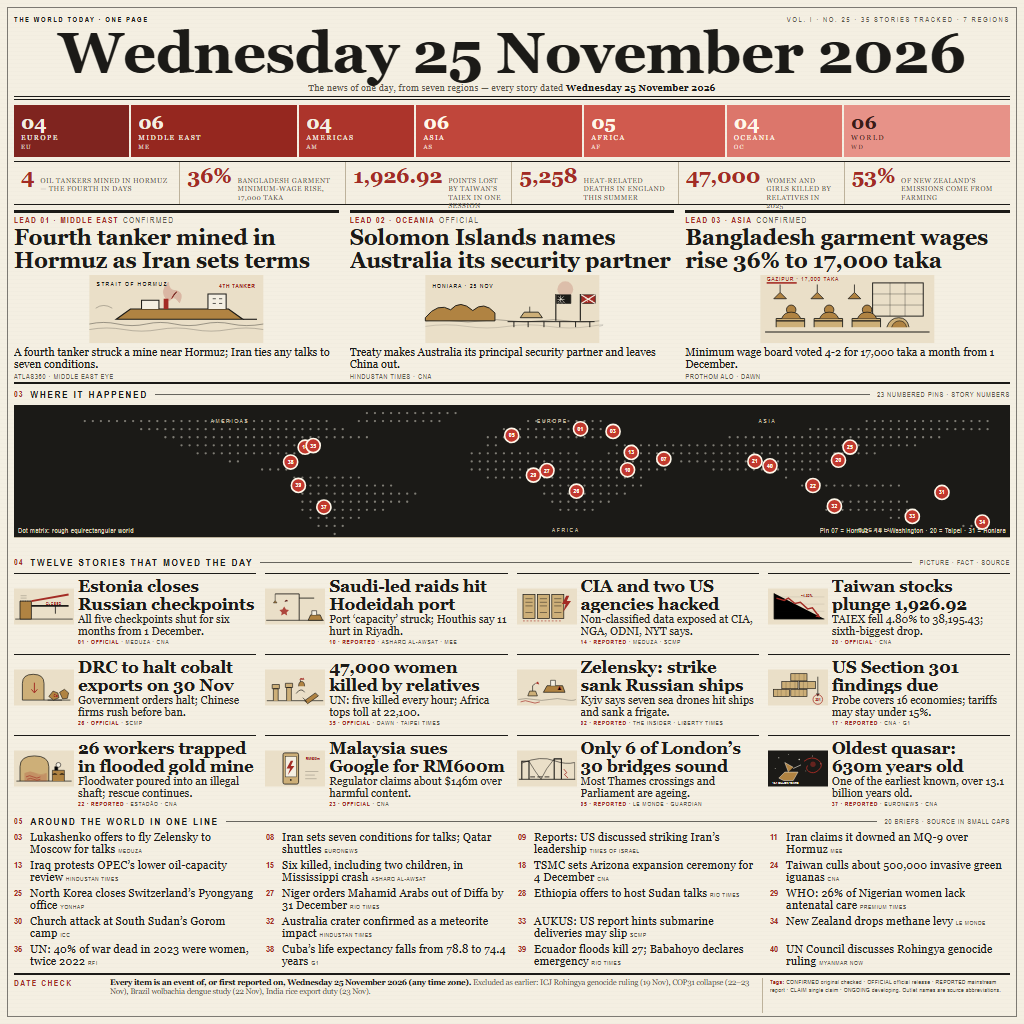
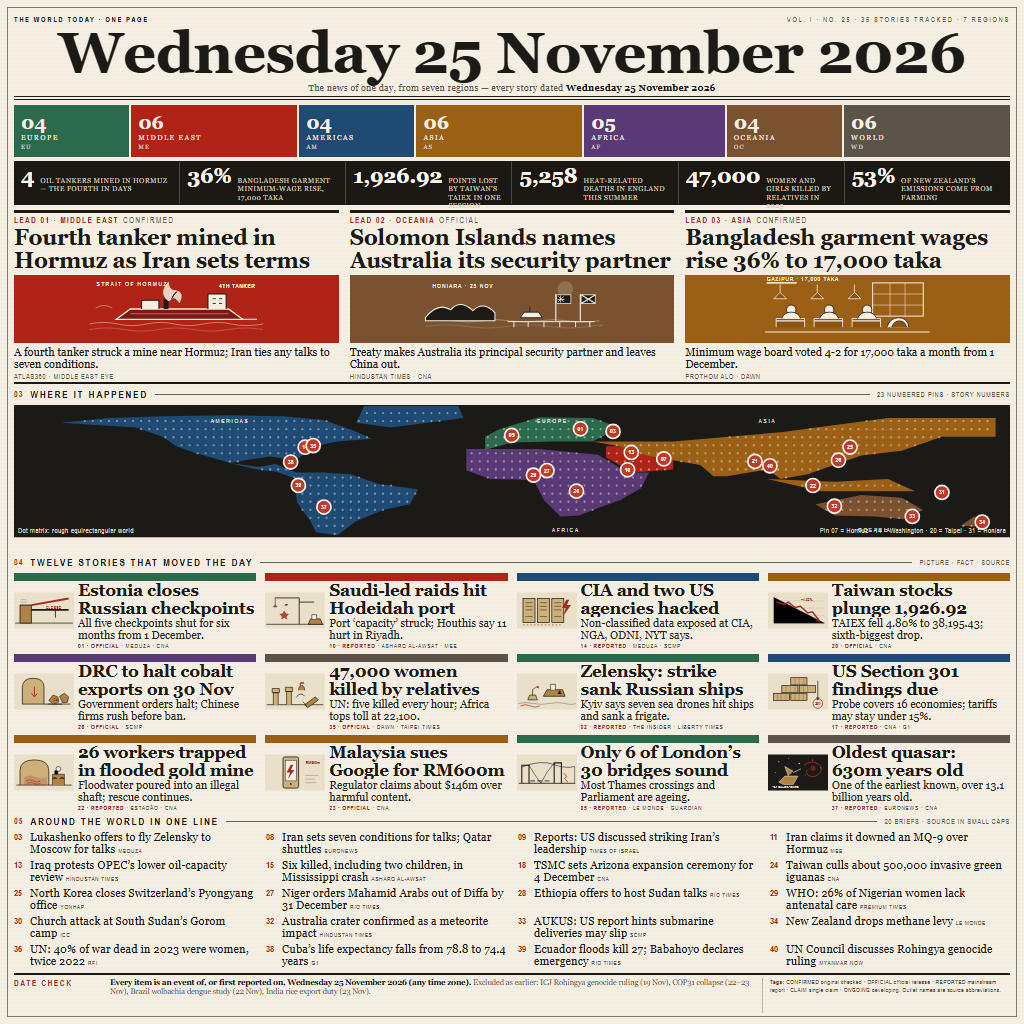
v2: area-level colour blocks - region palette, solid lead panels, dark stat strip, card top bars, map land fills

diff --git a/design.html b/design.html
@@ -40,11 +40,11 @@
   .region b{font-size:19px;line-height:19px;font-family:Georgia,serif}
   .region span{font-size:7.4px;line-height:8px;letter-spacing:1.2px;text-transform:uppercase;margin-top:2px;white-space:nowrap}
   .region small{font-size:6.4px;letter-spacing:.8px;opacity:.8;margin-top:1px;text-transform:uppercase;white-space:nowrap}
-  .numbers{display:flex;height:44px;margin-top:4px;border-top:1.5px solid var(--ink);border-bottom:1.5px solid var(--ink)}
-  .num{flex:1;border-right:1px solid var(--faint);padding:3px 7px 2px 7px;display:flex;align-items:baseline;gap:6px;min-width:0}
+  .numbers{display:flex;height:44px;margin-top:4px;border-top:1.5px solid var(--ink);border-bottom:1.5px solid var(--ink);background:#1B1813}
+  .num{flex:1;border-right:1px solid rgba(244,239,226,.22);padding:3px 7px 2px 7px;display:flex;align-items:baseline;gap:6px;min-width:0}
   .num:last-child{border-right:0}
-  .num b{font-size:21px;line-height:22px;color:var(--accent);white-space:nowrap;letter-spacing:-.3px}
-  .num span{font-size:7.1px;line-height:8.4px;text-transform:uppercase;letter-spacing:.35px;color:var(--muted)}
+  .num b{font-size:21px;line-height:22px;color:#FFF8EA;white-space:nowrap;letter-spacing:-.3px}
+  .num span{font-size:7.1px;line-height:8.4px;text-transform:uppercase;letter-spacing:.35px;color:#D8CDB8}
   .sec-head{display:flex;align-items:center;gap:7px;height:15px;margin-bottom:3px}
   .sec-no{font-family:"Arial Narrow","Segoe UI",Arial,sans-serif;font-size:8px;font-weight:700;letter-spacing:1px;color:var(--accent)}
   .sec-head h2{font-family:"Arial Narrow","Segoe UI",Arial,sans-serif;font-size:9.5px;line-height:11px;letter-spacing:2px;text-transform:uppercase;margin:0;font-weight:700}
@@ -65,7 +65,7 @@
   .map-key{position:absolute;left:4px;bottom:3px;font-family:"Arial Narrow","Segoe UI",Arial,sans-serif;font-size:6.7px;letter-spacing:.5px;color:#D8CDB8}
   .cards-section{margin-top:5px}
   .cards-grid{display:grid;grid-template-columns:repeat(4,1fr);gap:7px 9px}
-  .card{height:74px;border-top:1.5px solid var(--ink);padding-top:3px;display:grid;grid-template-columns:60px 1fr;gap:4px;min-width:0}
+  .card{height:74px;border-top:8px solid var(--ink);padding-top:0;display:grid;grid-template-columns:60px 1fr;gap:4px;min-width:0}
   .card-art{width:60px;height:55px;margin-top:2px}
   .card-txt{min-width:0}
   .card-title{font-size:17px;line-height:18.2px;font-weight:700;height:36.4px;overflow:hidden;letter-spacing:-.2px}
@@ -87,7 +87,7 @@
   .paper-dot{fill:#F4EFE2;opacity:.46}
   .pin{fill:#C0392E;stroke:#FFF8EA;stroke-width:1.6}
   .pin-label{font-family:"Arial Narrow","Segoe UI",Arial,sans-serif;font-weight:700;fill:#FFF8EA;font-size:6.4px;text-anchor:middle}
-  .map-region{font-family:"Arial Narrow","Segoe UI",Arial,sans-serif;font-size:6.2px;letter-spacing:1.5px;fill:#BDB29B;text-anchor:middle}
+  .map-region{font-family:"Arial Narrow","Segoe UI",Arial,sans-serif;font-size:6.2px;letter-spacing:1.5px;fill:#F4EFE2;opacity:.8;text-anchor:middle}
 </style>
 </head>
 <body>
@@ -96,13 +96,13 @@
 const INK='#1B1A17', ACC='#A32B24', PAP='#F4EFE2', PAP2='#CDAF78', PAP3='#B08342', MUT='#5E594E';
 
 const REGIONS=[
-  {key:'EU',name:'EUROPE',count:4,color:'#7F241F',fg:'#F4EFE2'},
-  {key:'ME',name:'MIDDLE EAST',count:6,color:'#95271F',fg:'#F4EFE2'},
-  {key:'AM',name:'AMERICAS',count:4,color:'#AC342B',fg:'#F4EFE2'},
-  {key:'AS',name:'ASIA',count:6,color:'#C0463B',fg:'#FFF8EA'},
-  {key:'AF',name:'AFRICA',count:5,color:'#D05A4E',fg:'#FFF8EA'},
-  {key:'OC',name:'OCEANIA',count:4,color:'#DC766B',fg:'#FFF8EA'},
-  {key:'WD',name:'WORLD',count:6,color:'#E79288',fg:'#3A1C18'}
+  {key:'EU',name:'EUROPE',count:4,color:'#2C6A4D',fg:'#F4EFE2'},
+  {key:'ME',name:'MIDDLE EAST',count:6,color:'#B02418',fg:'#F4EFE2'},
+  {key:'AM',name:'AMERICAS',count:4,color:'#1E4A74',fg:'#F4EFE2'},
+  {key:'AS',name:'ASIA',count:6,color:'#9C5F16',fg:'#F4EFE2'},
+  {key:'AF',name:'AFRICA',count:5,color:'#5A3A76',fg:'#F4EFE2'},
+  {key:'OC',name:'OCEANIA',count:4,color:'#7A5230',fg:'#F4EFE2'},
+  {key:'WD',name:'WORLD',count:6,color:'#5A544A',fg:'#F4EFE2'}
 ];
 
 const NUMBERS=[
@@ -173,9 +173,9 @@ quasar:`<svg class="art" viewBox="0 0 100 60"><rect width="100" height="60" fill
 };
 
 const ART_HEAD={
-tanker:`<svg class="art" viewBox="0 0 220 86"><rect width="220" height="86" fill="#EADFC8"/><path d="M0 62 Q18 58 36 62 T72 62 T108 62 T144 62 T180 62 T220 62" fill="none" stroke="${INK}" stroke-width="1.1" opacity=".45"/><path d="M0 69 Q22 65 44 69 T88 69 T132 69 T176 69 T220 69" fill="none" stroke="${INK}" stroke-width="1.1" opacity=".28"/><path d="M34 56 L52 43 H176 L194 56 Z" fill="${PAP3}" stroke="${INK}" stroke-width="1.5"/><path d="M66 43 V32 H88 V43" fill="${PAP}" stroke="${INK}" stroke-width="1.3"/><path d="M150 43 V24 H173 V43" fill="${PAP}" stroke="${INK}" stroke-width="1.3"/><path d="M156 30 h4 M164 30 h4 M156 36 h4 M164 36 h4" stroke="${INK}" stroke-width=".9"/><path d="M94 43 V30 h6 v13" fill="${ACC}"/><path d="M99 32 Q88 22 100 9 Q100 20 110 20 Q120 22 114 35 Q108 26 104 30 Q101 34 99 32Z" fill="${ACC}" opacity=".22" stroke="${ACC}" stroke-width="1.2"/><path d="M104 30 q3 -7 7 -9" stroke="${ACC}" stroke-width="1.2"/><path d="M194 56 h18" stroke="${INK}" stroke-width="1.4"/><path d="M8 42 q10 -7 21 0" stroke="${INK}" opacity=".35" fill="none"/><text x="9" y="14" font-family="Arial Narrow,Arial" font-size="8" letter-spacing="1.6" fill="${INK}">STRAIT OF HORMUZ</text><text x="164" y="16" font-family="Arial Narrow,Arial" font-size="7" font-weight="bold" letter-spacing="1" fill="${ACC}">4TH TANKER</text></svg>`,
-solomon:`<svg class="art" viewBox="0 0 220 86"><rect width="220" height="86" fill="#EADFC8"/><circle cx="177" cy="18" r="10" fill="${ACC}" opacity=".18"/><path d="M0 58 Q18 55 36 58 T72 58 T108 58 T144 58 T180 58 T220 58" stroke="${INK}" stroke-width="1" opacity=".4" fill="none"/><path d="M0 65 Q26 61 52 65 T104 65 T156 65 T208 65 T220 65" stroke="${INK}" stroke-width=".9" opacity=".22" fill="none"/><path d="M0 54 Q16 34 32 44 Q44 30 60 45 Q74 32 88 48 L88 58 H0 Z" fill="${PAP3}" stroke="${INK}" stroke-width="1.2"/><path d="M104 59 H214 M112 59 V66 M130 59 V66 M150 59 V66 M170 59 V66 M190 59 V66 M208 59 V66" stroke="${INK}" stroke-width="1.2"/><path d="M120 54 H148 L143 47 H125 Z" fill="${PAP2}" stroke="${INK}" stroke-width="1.1"/><path d="M132 47 V40" stroke="${INK}" stroke-width=".9"/><path d="M165 58 V24 M196 58 V24" stroke="${INK}" stroke-width="1.4"/><path d="M166 25 H184 V36 H166 Z" fill="#1B1A17" stroke="${INK}" stroke-width=".8"/><path d="M168 27 l7 7 M175 27 l-7 7 M171 26 v9 M167 31 h9" stroke="#F4EFE2" stroke-width=".7"/><path d="M167 34 l2 2 2 -2 2 2 2 -2 2 2" stroke="#F4EFE2" stroke-width=".6"/><path d="M197 25 H215 V36 H197 Z" fill="#A32B24" stroke="${INK}" stroke-width=".8"/><path d="M197 25 L215 36 M197 36 L215 25" stroke="#F4EFE2" stroke-width="1.4"/><g fill="#F4EFE2"><circle cx="203" cy="29" r=".8"/><circle cx="208" cy="30" r=".8"/><circle cx="205" cy="33" r=".7"/><circle cx="211" cy="33" r=".8"/><circle cx="207" cy="31" r=".6"/></g><text x="9" y="16" font-family="Arial Narrow,Arial" font-size="7.5" letter-spacing="1.4" fill="${INK}">HONIARA · 25 NOV</text></svg>`,
-garment:`<svg class="art" viewBox="0 0 220 86"><rect width="220" height="86" fill="#EADFC8"/><g fill="none" stroke="${INK}"><rect x="142" y="10" width="64" height="42" stroke-width="1.2"/><path d="M142 24 H206 M142 38 H206 M164 10 V52 M183 10 V52" stroke-width=".7" opacity=".6"/></g><path d="M25 12 V22 M25 22 L17 30 H33 Z" fill="${PAP3}" stroke="${INK}" stroke-width="1"/><path d="M72 12 V22 M72 22 L64 30 H80 Z" fill="${PAP3}" stroke="${INK}" stroke-width="1"/><path d="M119 12 V22 M119 22 L111 30 H127 Z" fill="${PAP3}" stroke="${INK}" stroke-width="1"/><path d="M6 72 H214" stroke="${INK}" stroke-width="1.3"/><g stroke="${INK}" stroke-width="1.1"><path d="M20 66 V55 H56 V66" fill="${PAP2}"/><path d="M68 66 V55 H104 V66" fill="${PAP2}"/><path d="M116 66 V55 H152 V66" fill="${PAP2}"/><path d="M20 58 H56 M68 58 H104 M116 58 H152" stroke-width="1.4"/></g><g fill="${PAP3}" stroke="${INK}" stroke-width="1"><circle cx="39" cy="44" r="6"/><path d="M27 55 Q30 47 39 47 Q48 47 51 55"/><circle cx="87" cy="44" r="6"/><path d="M75 55 Q78 47 87 47 Q96 47 99 55"/><circle cx="135" cy="44" r="6"/><path d="M123 55 Q126 47 135 47 Q144 47 147 55"/></g><path d="M160 66 q4 -12 15 -12 q11 0 13 12" fill="${PAP2}" stroke="${INK}" stroke-width="1"/><path d="M166 66 q3 -8 10 -8 q7 0 9 8" fill="${PAP3}" stroke="${INK}" stroke-width=".8"/><path d="M8 10 h38" stroke="${ACC}" stroke-width="2"/><text x="8" y="8" font-family="Arial Narrow,Arial" font-size="7" letter-spacing="1.3" fill="${ACC}">GAZIPUR · 17,000 TAKA</text></svg>`
+ tanker:()=>`<svg class="art" viewBox="0 0 220 86"><path d="M0 62 Q18 58 36 62 T72 62 T108 62 T144 62 T180 62 T220 62" fill="none" stroke="#F4EFE2" stroke-width="1.1" opacity=".5"/><path d="M0 69 Q22 65 44 69 T88 69 T132 69 T176 69 T220 69" fill="none" stroke="#F4EFE2" stroke-width="1.1" opacity=".28"/><path d="M34 56 L52 43 H176 L194 56 Z" fill="#7E1810" stroke="#F4EFE2" stroke-width="1.6"/><path d="M66 43 V32 H88 V43" fill="#F4EFE2" stroke="#1B1A17" stroke-width="1.3"/><path d="M150 43 V24 H173 V43" fill="#F4EFE2" stroke="#1B1A17" stroke-width="1.3"/><path d="M156 30 h4 M164 30 h4 M156 36 h4 M164 36 h4" stroke="#1B1A17" stroke-width="1.1"/><path d="M94 43 V30 h6 v13" fill="#1B1A17"/><path d="M99 32 Q88 22 100 9 Q100 20 110 20 Q120 22 114 35 Q108 26 104 30 Q101 34 99 32Z" fill="#F4EFE2" opacity=".85" stroke="#F4EFE2" stroke-width="1.1"/><path d="M104 30 q3 -7 7 -9" stroke="#1B1A17" stroke-width="1.2"/><path d="M194 56 h18" stroke="#F4EFE2" stroke-width="1.4"/><path d="M8 42 q10 -7 21 0" stroke="#F4EFE2" opacity=".55" fill="none"/><path d="M52 49 H176" stroke="#F4EFE2" stroke-width="1" opacity=".5"/><text x="9" y="14" font-family="Arial Narrow,Arial" font-size="8" letter-spacing="1.6" fill="#F4EFE2">STRAIT OF HORMUZ</text><text x="164" y="16" font-family="Arial Narrow,Arial" font-size="7" font-weight="bold" letter-spacing="1" fill="#F4EFE2">4TH TANKER</text></svg>`,
+ solomon:()=>`<svg class="art" viewBox="0 0 220 86"><circle cx="177" cy="18" r="10" fill="#F4EFE2" opacity=".2"/><path d="M0 58 Q18 55 36 58 T72 58 T108 58 T144 58 T180 58 T220 58" stroke="#F4EFE2" stroke-width="1" opacity=".45" fill="none"/><path d="M0 65 Q26 61 52 65 T104 65 T156 65 T208 65 T220 65" stroke="#F4EFE2" stroke-width=".9" opacity=".25" fill="none"/><path d="M0 54 Q16 34 32 44 Q44 30 60 45 Q74 32 88 48 L88 58 H0 Z" fill="#1B1A17" stroke="#F4EFE2" stroke-width="1.3"/><path d="M104 59 H214 M112 59 V66 M130 59 V66 M150 59 V66 M170 59 V66 M190 59 V66 M208 59 V66" stroke="#F4EFE2" stroke-width="1.2"/><path d="M120 54 H148 L143 47 H125 Z" fill="#F4EFE2" stroke="#1B1A17" stroke-width="1.1"/><path d="M132 47 V40" stroke="#1B1A17" stroke-width=".9"/><path d="M165 58 V24 M196 58 V24" stroke="#F4EFE2" stroke-width="1.4"/><path d="M166 25 H184 V36 H166 Z" fill="#1B1A17" stroke="#F4EFE2" stroke-width="1"/><path d="M168 27 l7 7 M175 27 l-7 7 M171 26 v9 M167 31 h9" stroke="#F4EFE2" stroke-width=".9"/><path d="M197 25 H215 V36 H197 Z" fill="#1B1A17" stroke="#F4EFE2" stroke-width="1"/><path d="M197 25 L215 36 M197 36 L215 25" stroke="#F4EFE2" stroke-width="1.4"/><g fill="#F4EFE2"><circle cx="203" cy="29" r=".8"/><circle cx="208" cy="30" r=".8"/><circle cx="205" cy="33" r=".7"/><circle cx="211" cy="33" r=".8"/><circle cx="207" cy="31" r=".6"/></g><text x="9" y="16" font-family="Arial Narrow,Arial" font-size="7.5" letter-spacing="1.4" fill="#F4EFE2">HONIARA · 25 NOV</text></svg>`,
+ garment:()=>`<svg class="art" viewBox="0 0 220 86"><g fill="none" stroke="#F4EFE2"><rect x="142" y="10" width="64" height="42" stroke-width="1.3"/><path d="M142 24 H206 M142 38 H206 M164 10 V52 M183 10 V52" stroke-width=".8" opacity=".85"/></g><path d="M25 12 V22 M25 22 L17 30 H33 Z" fill="#8A5312" stroke="#F4EFE2" stroke-width="1"/><path d="M72 12 V22 M72 22 L64 30 H80 Z" fill="#8A5312" stroke="#F4EFE2" stroke-width="1"/><path d="M119 12 V22 M119 22 L111 30 H127 Z" fill="#8A5312" stroke="#F4EFE2" stroke-width="1"/><path d="M6 72 H214" stroke="#F4EFE2" stroke-width="1.3"/><g stroke="#F4EFE2" stroke-width="1.1"><path d="M20 66 V55 H56 V66" fill="#8A5312"/><path d="M68 66 V55 H104 V66" fill="#8A5312"/><path d="M116 66 V55 H152 V66" fill="#8A5312"/><path d="M20 58 H56 M68 58 H104 M116 58 H152" stroke-width="1.4"/></g><g fill="#F4EFE2" stroke="#1B1A17" stroke-width="1"><circle cx="39" cy="44" r="6"/><path d="M27 55 Q30 47 39 47 Q48 47 51 55"/><circle cx="87" cy="44" r="6"/><path d="M75 55 Q78 47 87 47 Q96 47 99 55"/><circle cx="135" cy="44" r="6"/><path d="M123 55 Q126 47 135 47 Q144 47 147 55"/></g><path d="M160 66 q4 -12 15 -12 q11 0 13 12" fill="#F4EFE2" stroke="#1B1A17" stroke-width="1"/><path d="M166 66 q3 -8 10 -8 q7 0 9 8" fill="#8A5312" stroke="#1B1A17" stroke-width=".8"/><path d="M8 10 h38" stroke="#F4EFE2" stroke-width="2"/><text x="8" y="8" font-family="Arial Narrow,Arial" font-size="7" letter-spacing="1.3" fill="#F4EFE2">GAZIPUR · 17,000 TAKA</text></svg>`
 };
 
 // ---------- build ----------
@@ -195,7 +195,7 @@ html+='<div class="region-band">'+REGIONS.map(r=>`<div class="region" style="fle
 html+='<div class="numbers">'+NUMBERS.map(n=>`<div class="num"><b>${n.v}</b><span>${n.cap}</span></div>`).join('')+'</div>';
 
 const leads=STORIES.filter(s=>s.section==='lead');
-html+='<section class="headlines">'+leads.map((s,i)=>`<article class="headline"><div class="h-kicker">LEAD ${String(i+1).padStart(2,'0')} · ${REGIONS.find(r=>r.key===s.region).name}<span class="tag">${s.tag}</span></div><div class="h-title">${s.title}</div><div class="h-art">${ART_HEAD[s.art]}</div><div class="h-body">${s.body}</div><div class="h-src">${s.src}</div></article>`).join('')+'</section>';
+html+='<section class="headlines">'+leads.map((s,i)=>{const rc=REGIONS.find(r=>r.key===s.region);return `<article class="headline"><div class="h-kicker">LEAD ${String(i+1).padStart(2,'0')} · ${rc.name}<span class="tag">${s.tag}</span></div><div class="h-title">${s.title}</div><div class="h-art" style="background:${rc.color}">${ART_HEAD[s.art]()}</div><div class="h-body">${s.body}</div><div class="h-src">${s.src}</div></article>`;}).join('')+'</section>';
 
 // map
 const MAP_W=960, MAP_H=132, LON0=-180, LON1=180, LAT0=-58, LAT1=84;
@@ -229,11 +229,13 @@ const PINS=[
 ];
 let pins='';
 PINS.forEach(p=>{const [x,y]=proj(p.lon,p.lat);pins+=`<circle class="pin" cx="${x.toFixed(1)}" cy="${y.toFixed(1)}" r="7"/><text class="pin-label" x="${x.toFixed(1)}" y="${(y+2).toFixed(1)}">${String(p.id).padStart(2,'0')}</text>`;});
-const mapSvg=`<svg class="map-svg" viewBox="0 0 ${MAP_W} ${MAP_H}" preserveAspectRatio="xMidYMid meet">${dots}<g class="map-region"><text x="${proj(-105,55)[0]}" y="18">AMERICAS</text><text x="${proj(15,52)[0]}" y="18">EUROPE</text><text x="${proj(20,5)[0]}" y="${MAP_H-6}">AFRICA</text><text x="${proj(95,55)[0]}" y="18">ASIA</text><text x="${proj(135,-20)[0]}" y="${MAP_H-6}">OCEANIA</text></g>${pins}</svg>`;
+const POLY_REGION=['AM','AM','AM','AM','EU','AF','ME','AS','AS','AS','OC','OC'];
+const landFills=POLYS.map((poly,i)=>`<polygon points="${poly.map(([lo,la])=>proj(lo,la).map(v=>v.toFixed(1)).join(',')).join(' ')}" fill="${REGIONS.find(r=>r.key===POLY_REGION[i]).color}"/>`).join('');
+const mapSvg=`<svg class="map-svg" viewBox="0 0 ${MAP_W} ${MAP_H}" preserveAspectRatio="xMidYMid meet">${landFills}${dots}<g class="map-region"><text x="${proj(-105,55)[0]}" y="18">AMERICAS</text><text x="${proj(15,52)[0]}" y="18">EUROPE</text><text x="${proj(20,5)[0]}" y="${MAP_H-6}">AFRICA</text><text x="${proj(95,55)[0]}" y="18">ASIA</text><text x="${proj(135,-20)[0]}" y="${MAP_H-6}">OCEANIA</text></g>${pins}</svg>`;
 html+=`<section class="map-section"><div class="sec-head"><span class="sec-no">03</span><h2>Where it happened</h2><span class="rule"></span><span class="aside">${PINS.length} numbered pins · story numbers</span></div><div class="map-holder">${mapSvg}<div class="map-key">Dot matrix: rough equirectangular world</div><div class="map-note">Pin 07 = Hormuz · 14 = Washington · 20 = Taipei · 31 = Honiara</div></div></section>`;
 
 const cards=STORIES.filter(s=>s.section==='card');
-html+=`<section class="cards-section"><div class="sec-head"><span class="sec-no">04</span><h2>Twelve stories that moved the day</h2><span class="rule"></span><span class="aside">Picture · fact · source</span></div><div class="cards-grid">`+cards.map(s=>`<article class="card"><div class="card-art">${ICONS[s.art]}</div><div class="card-txt"><div class="card-title">${s.title}</div><div class="card-body">${s.body}</div><div class="card-meta"><b>${String(s.id).padStart(2,'0')} · ${s.tag}</b> · ${s.src}</div></div></article>`).join('')+'</div></section>';
+html+=`<section class="cards-section"><div class="sec-head"><span class="sec-no">04</span><h2>Twelve stories that moved the day</h2><span class="rule"></span><span class="aside">Picture · fact · source</span></div><div class="cards-grid">`+cards.map(s=>`<article class="card" style="border-top-color:${REGIONS.find(r=>r.key===s.region).color}"><div class="card-art">${ICONS[s.art]}</div><div class="card-txt"><div class="card-title">${s.title}</div><div class="card-body">${s.body}</div><div class="card-meta"><b>${String(s.id).padStart(2,'0')} · ${s.tag}</b> · ${s.src}</div></div></article>`).join('')+'</div></section>';
 
 const briefs=STORIES.filter(s=>s.section==='brief');
 html+=`<section class="briefs-section"><div class="sec-head"><span class="sec-no">05</span><h2>Around the world in one line</h2><span class="rule"></span><span class="aside">${briefs.length} briefs · source in small caps</span></div><div class="briefs-grid">`+briefs.map(s=>`<div class="brief"><span class="n">${String(s.id).padStart(2,'0')}</span>${s.title} <span class="src">${s.src}</span></div>`).join('')+'</div></section>';
